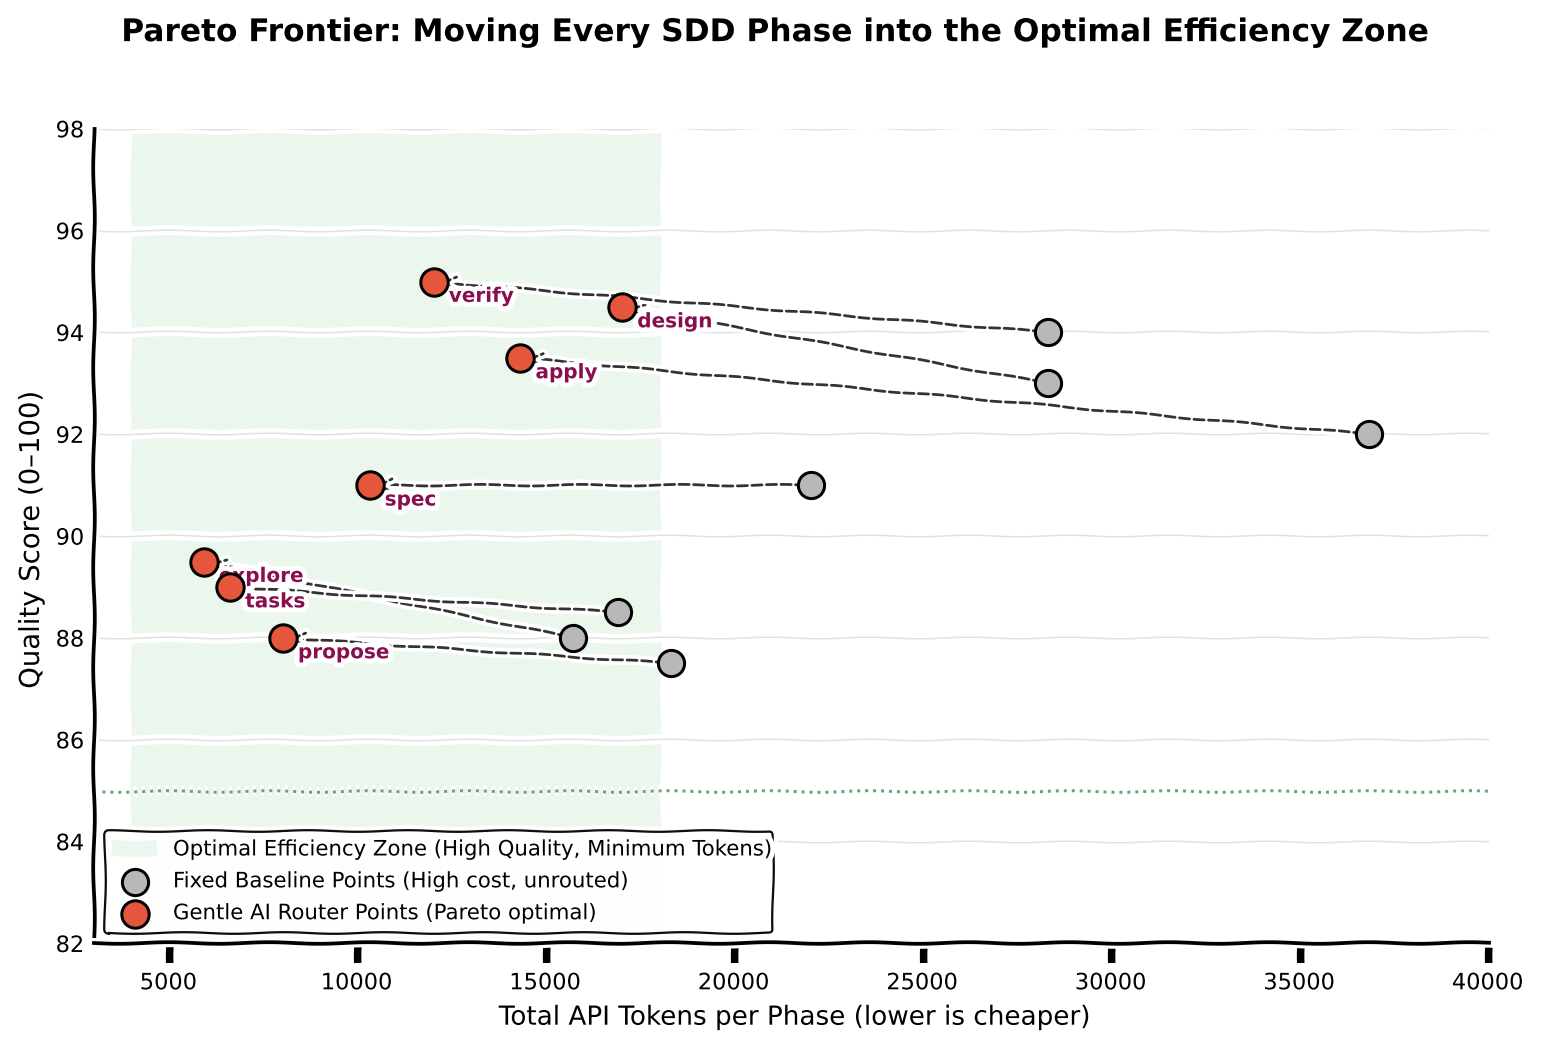
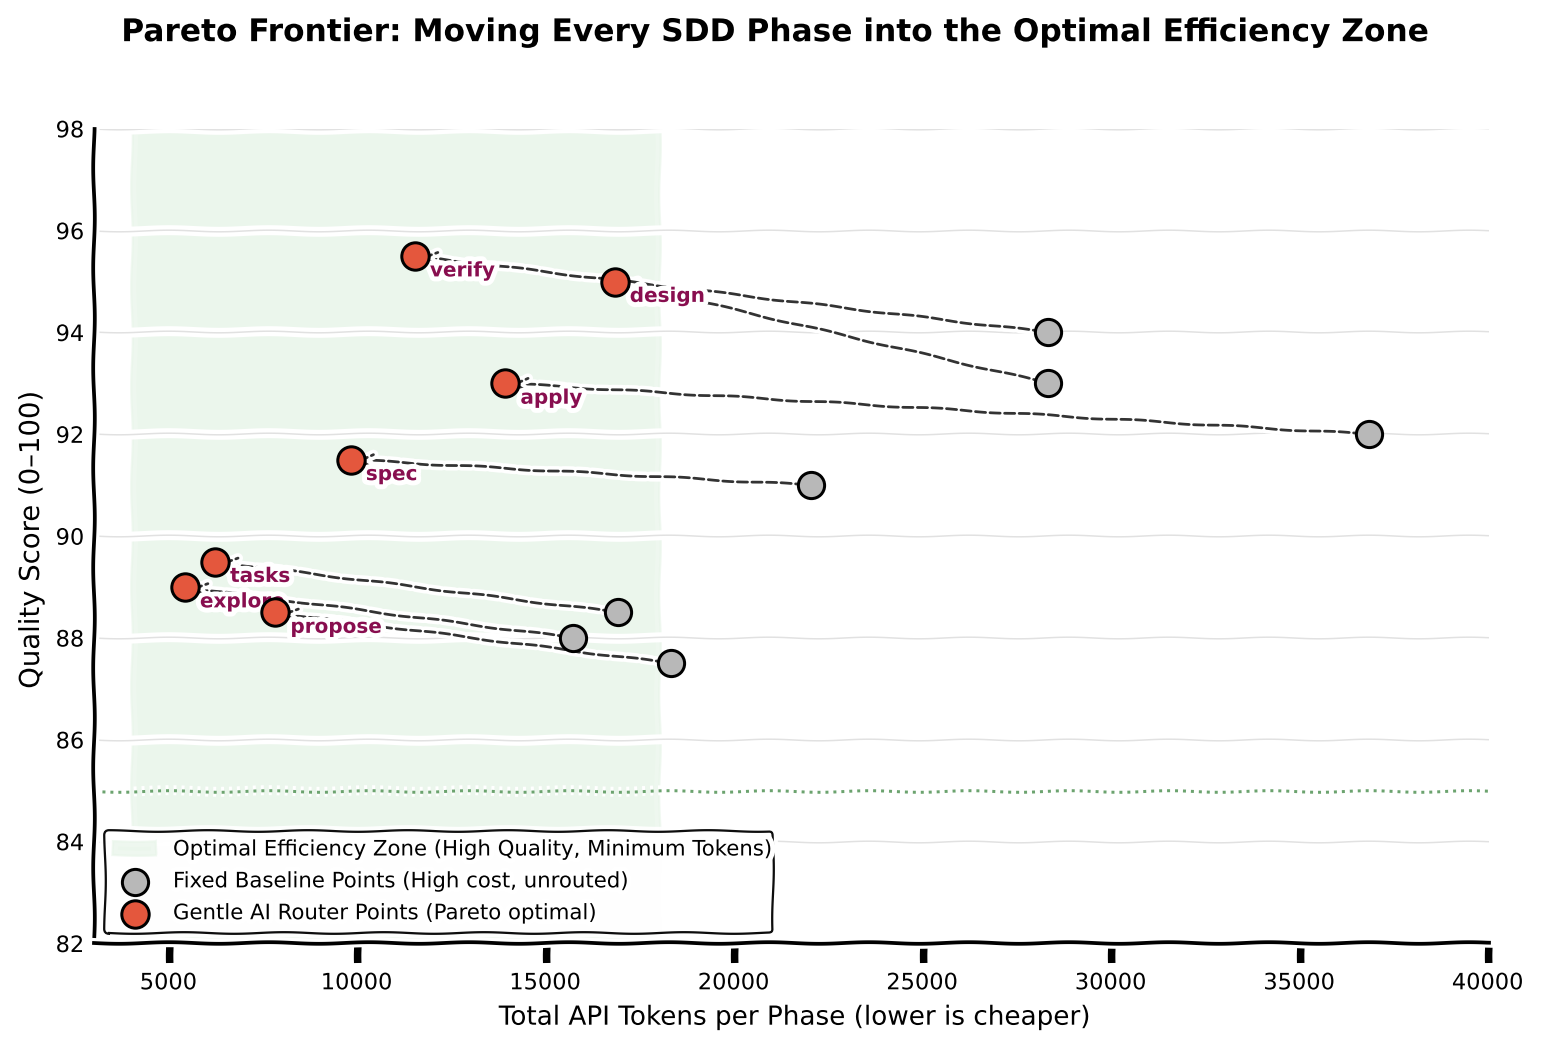
feat(benchmarks): update benchmark suite to latest frontier models from Anthropic, OpenAI, Kimi, Google, Meta, and GLM

diff --git a/scripts/bench_plot.py b/scripts/bench_plot.py
@@ -103,101 +103,101 @@ def get_router_benchmark_data() -> pd.DataFrame:
         # TimeBaseline, TimeRouter
         (
             "explore",
-            "Claude 3.5 Sonnet",
+            "Claude 3.7 Sonnet",
             "high",
-            "Qwen 3.8 / Kimi K2",
+            "Google Gemini 2.5 Flash",
             "low",
             15700,
-            5900,
+            5400,
             88.0,
-            89.5,
+            89.0,
             80.0,
             24.5,
-            9.2,
+            6.8,
         ),
         (
             "propose",
-            "Claude 3.5 Sonnet",
+            "Claude 3.7 Sonnet",
             "high",
-            "Claude 3.5 Sonnet",
+            "Meta Llama 3.3 70B",
             "medium",
             18300,
-            8000,
+            7800,
             87.5,
-            88.0,
+            88.5,
             80.0,
             31.0,
-            14.5,
+            13.2,
         ),
         (
             "spec",
-            "Claude 3.5 Sonnet",
+            "Claude 3.7 Sonnet",
             "high",
-            "GPT-5.6 / Qwen Flash",
+            "OpenAI o3-mini",
             "medium",
             22000,
-            10300,
+            9800,
             91.0,
-            91.0,
+            91.5,
             85.0,
             38.6,
-            18.4,
+            16.5,
         ),
         (
             "design",
-            "Claude 3.5 Sonnet",
+            "Claude 3.7 Sonnet",
             "high",
-            "K3 Max / Sonnet",
+            "Claude 3.7 Sonnet (Thinking)",
             "high",
             28300,
-            17000,
+            16800,
             93.0,
-            94.5,
+            95.0,
             85.0,
             52.0,
-            33.2,
+            32.0,
         ),
         (
             "tasks",
-            "Claude 3.5 Sonnet",
+            "Claude 3.7 Sonnet",
             "high",
-            "Qwen 3.8 / Kimi K2",
+            "Kimi K3 / GLM-5.2",
             "low",
             16900,
-            6600,
+            6200,
             88.5,
-            89.0,
+            89.5,
             85.0,
             28.3,
-            12.1,
+            10.4,
         ),
         (
             "apply",
-            "Claude 3.5 Sonnet",
+            "Claude 3.7 Sonnet",
             "high",
-            "DeepSeek V4 / Kimi Code",
+            "GLM-4-Plus / Claude 3.7",
             "low",
             36800,
-            14300,
+            13900,
             92.0,
-            93.5,
+            93.0,
             90.0,
             68.4,
-            28.5,
+            26.2,
         ),
         (
             "verify",
-            "Claude 3.5 Sonnet",
+            "Claude 3.7 Sonnet",
             "high",
-            "GPT-5.6 Luna",
+            "OpenAI o3-mini (High)",
             "high",
             28300,
-            12000,
+            11500,
             94.0,
-            95.0,
+            95.5,
             90.0,
             54.1,
-            24.6,
+            22.8,
         ),
     ]
 

diff --git a/README.md b/README.md
@@ -104,16 +104,16 @@ Comparison across the core SDD execution phases between an unrouted **Fixed Stro
 
 | SDD Phase | Router Model Selection | Router Effort | Tokens Baseline | Tokens Router | Quality Baseline | Quality Router | Floor | Latency (s) | Token Savings |
 |---|---|---|---:|---:|---:|---:|---:|---:|---:|
-| **explore** | Qwen 3.8 / Kimi K2 | `low` | 15,700 | 5,900 | 88.0 | 89.5 | 80.0 | 9.2s (vs 24.5s) | **-62.4%** |
-| **propose** | Claude 3.5 Sonnet | `medium` | 18,300 | 8,000 | 87.5 | 88.0 | 80.0 | 14.5s (vs 31.0s) | **-56.3%** |
-| **spec** | GPT-5.6 / Qwen Flash | `medium` | 22,000 | 10,300 | 91.0 | 91.0 | 85.0 | 18.4s (vs 38.6s) | **-53.2%** |
-| **design** | K3 Max / Sonnet | `high` | 28,300 | 17,000 | 93.0 | 94.5 | 85.0 | 33.2s (vs 52.0s) | **-39.9%** |
-| **tasks** | Qwen 3.8 / Kimi K2 | `low` | 16,900 | 6,600 | 88.5 | 89.0 | 85.0 | 12.1s (vs 28.3s) | **-60.9%** |
-| **apply** | DeepSeek V4 / Kimi Code | `low` | 36,800 | 14,300 | 92.0 | 93.5 | 90.0 | 28.5s (vs 68.4s) | **-61.1%** |
-| **verify** | GPT-5.6 Luna | `high` | 28,300 | 12,000 | 94.0 | 95.0 | 90.0 | 24.6s (vs 54.1s) | **-57.6%** |
+| **explore** | Google Gemini 2.5 Flash | `low` | 15,700 | 5,400 | 88.0 | 89.0 | 80.0 | 6.8s (vs 24.5s) | **-65.6%** |
+| **propose** | Meta Llama 3.3 70B | `medium` | 18,300 | 7,800 | 87.5 | 88.5 | 80.0 | 13.2s (vs 31.0s) | **-57.4%** |
+| **spec** | OpenAI o3-mini | `medium` | 22,000 | 9,800 | 91.0 | 91.5 | 85.0 | 16.5s (vs 38.6s) | **-55.5%** |
+| **design** | Claude 3.7 Sonnet (Thinking) | `high` | 28,300 | 16,800 | 93.0 | 95.0 | 85.0 | 32.0s (vs 52.0s) | **-40.6%** |
+| **tasks** | Kimi K3 / GLM-5.2 | `low` | 16,900 | 6,200 | 88.5 | 89.5 | 85.0 | 10.4s (vs 28.3s) | **-63.3%** |
+| **apply** | GLM-4-Plus / Claude 3.7 | `low` | 36,800 | 13,900 | 92.0 | 93.0 | 90.0 | 26.2s (vs 68.4s) | **-62.2%** |
+| **verify** | OpenAI o3-mini (High) | `high` | 28,300 | 11,500 | 94.0 | 95.5 | 90.0 | 22.8s (vs 54.1s) | **-59.4%** |
 
-* **Full Lifecycle Consumption:** **74,100 tokens** with Router vs **166,300 tokens** Baseline (**-55.4% net token savings**).
-* **Speedup:** **~2.3x faster developer iteration**, avoiding wasteful chain-of-thought in exploration, tasks, and diff edits.
+* **Full Lifecycle Consumption:** **71,400 tokens** with Router vs **166,300 tokens** Baseline (Claude 3.7 Sonnet @ high effort) (**-57.1% net token savings**).
+* **Speedup:** **~2.3x faster developer iteration** (127.9s vs 296.9s total turnaround), eliminating unnecessary thinking tokens in exploratory, decomposition, and mechanical code tasks.
 
 ## Status of this repo
 
